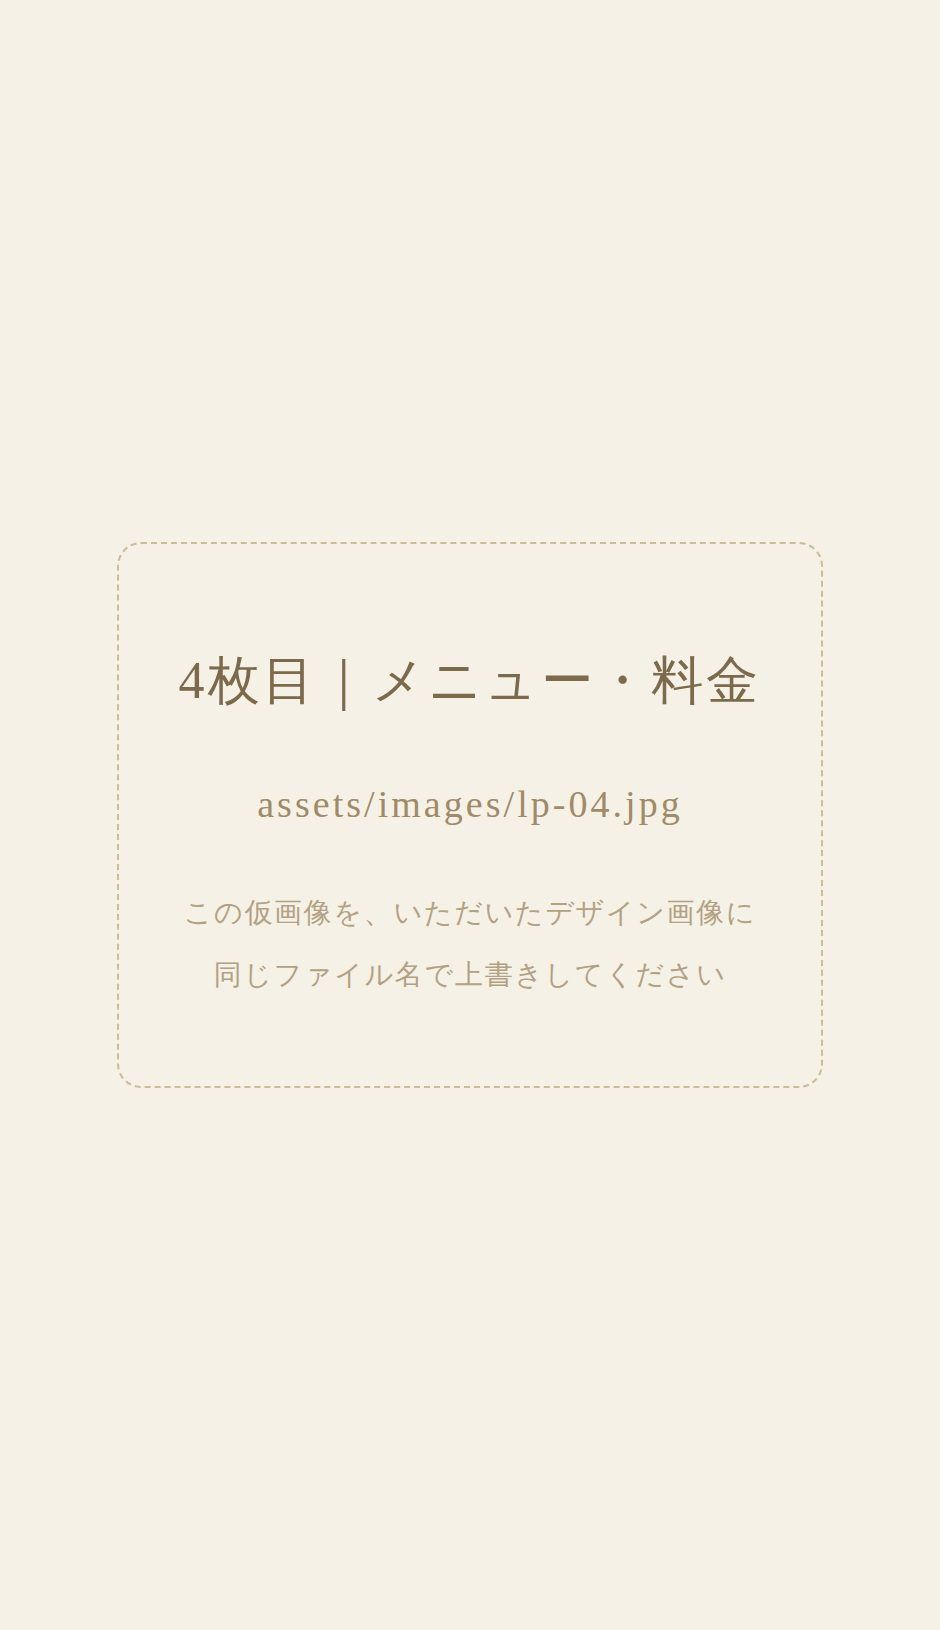
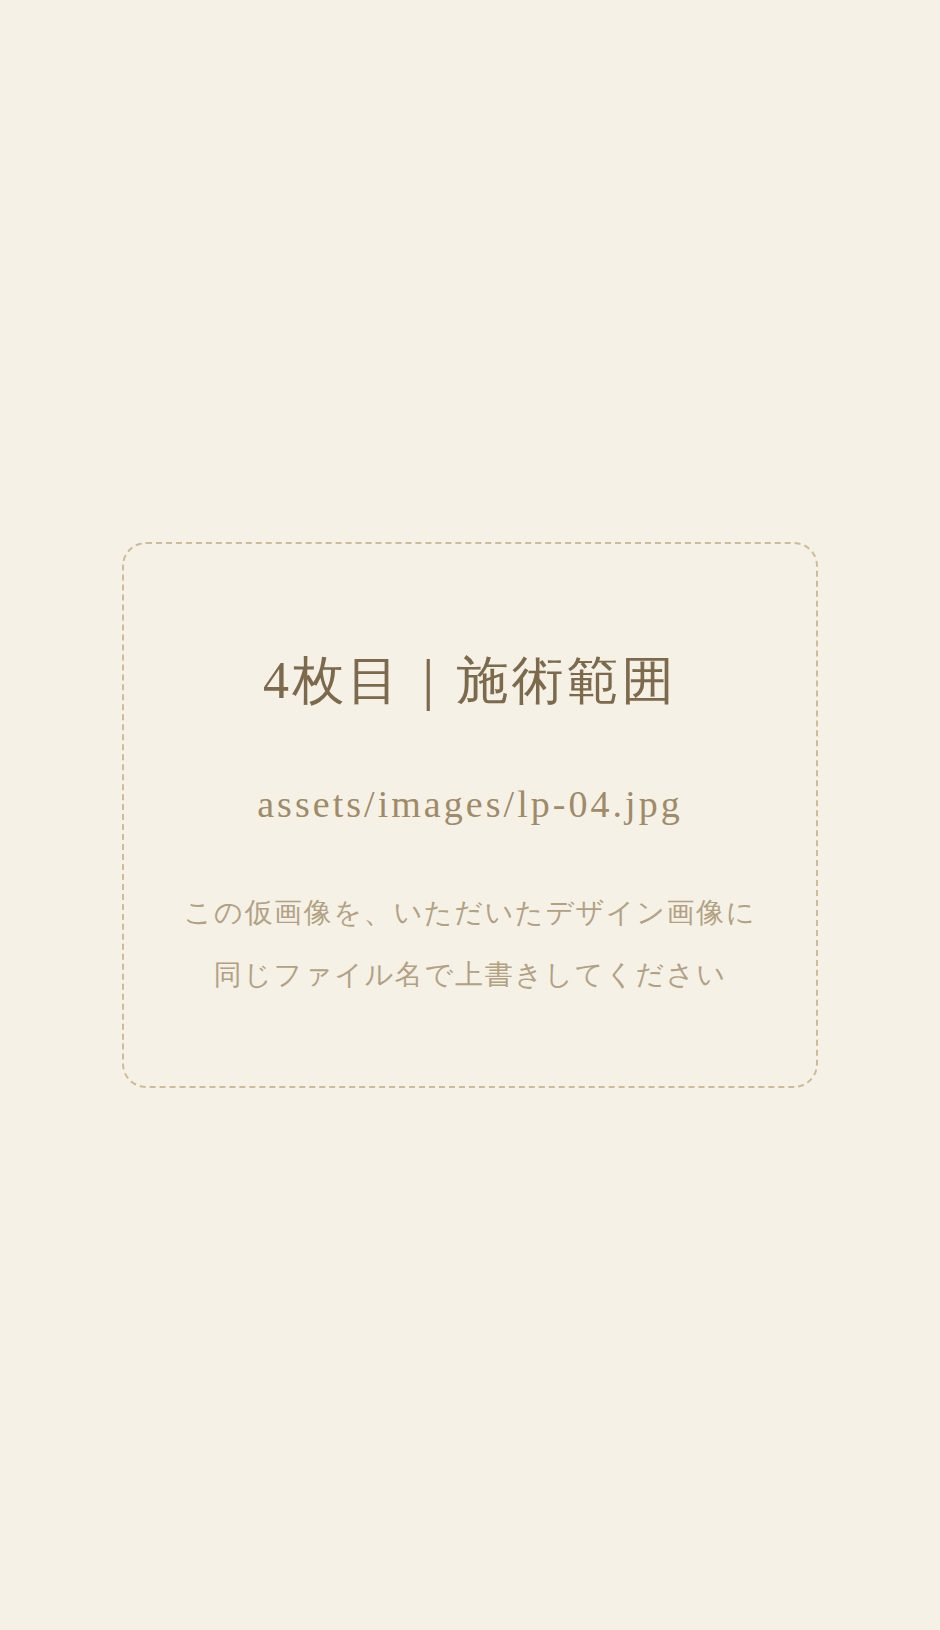
施術範囲を「60分後」の直後に移動し、番号を並び順に振り直し
lp-01 FV／02 お悩み・特長／03 60分後／04 施術範囲／05 メニュー・料金／
06 セラピスト紹介／07 よくある質問／08 クロージング

Claude-Session: https://claude.ai/code/session_014RihsbcfjD2T5DTBNgUpcP

Changed region(s): [[0.1851, 0.3988, 0.8021, 0.4294]]

diff --git a/index.html b/index.html
@@ -102,9 +102,9 @@
   <img src="assets/images/lp-01.jpg" alt="A＋salon／頭から、ふっと軽くなる。40代女性のための上質なヘッドマッサージ（完全予約制・女性専用／宗像市）">
   <img src="assets/images/lp-02.jpg" alt="こんなお悩みありませんか？ 頭が重い・眠りが浅い・首肩がつらい・自分時間がほしい。A＋salonのヘッドマッサージは、頭・顔・首・肩・デコルテまで、アーユルヴェーダの知恵を取り入れたケアをゆったり60分。">
   <img src="assets/images/lp-03.jpg" alt="60分後、こんな感覚を。頭がふわっと軽く感じる／深くひと息つける／鏡を見るのが少し楽しみになる">
-  <img src="assets/images/lp-04.jpg" alt="メニュー・料金：ヘッドマッサージ11,000円／シミケア 全顔38,000円・スポット1個6,500円／足裏角質ケア11,000円／毛穴クリアトリートメント11,000円／全身デトックスセラピー（タラソテラピー）13,500円">
-  <img src="assets/images/lp-05.jpg" alt="セラピスト紹介 後藤あけみ：忙しい毎日の中で、少し肩の力が抜ける場所でありたい。そんな想いで、お一人おひとりに丁寧に向き合っています。">
-  <img src="assets/images/lp-06.jpg" alt="施術範囲：頭からデコルテまで、ひと続きに。頭・顔・首・肩・デコルテを、つながっている部分として丁寧に触れていきます。">
+  <img src="assets/images/lp-04.jpg" alt="施術範囲：頭からデコルテまで、ひと続きに。頭・顔・首・肩・デコルテを、つながっている部分として丁寧に触れていきます。">
+  <img src="assets/images/lp-05.jpg" alt="メニュー・料金：ヘッドマッサージ11,000円／シミケア 全顔38,000円・スポット1個6,500円／足裏角質ケア11,000円／毛穴クリアトリートメント11,000円／全身デトックスセラピー（タラソテラピー）13,500円">
+  <img src="assets/images/lp-06.jpg" alt="セラピスト紹介 後藤あけみ：忙しい毎日の中で、少し肩の力が抜ける場所でありたい。そんな想いで、お一人おひとりに丁寧に向き合っています。">
   <img src="assets/images/lp-07.jpg" alt="よくある質問：オイルは使いますか？／メイクをしたままでも大丈夫ですか？／初めてでも大丈夫ですか？">
 
   <!-- 最後の1枚はボタン部分をリンクにしています（位置は下の .hot--reserve / .hot--line の % で調整できます） -->

diff --git a/README.md b/README.md
@@ -27,9 +27,9 @@
    | `lp-01.jpg` | 1枚目：ファーストビュー |
    | `lp-02.jpg` | 2枚目：こんなお悩み・特長 |
    | `lp-03.jpg` | 3枚目：60分後、こんな感覚を。 |
-   | `lp-04.jpg` | 4枚目：メニュー・料金 |
-   | `lp-05.jpg` | 5枚目：セラピスト紹介 |
-   | `lp-06.jpg` | 6枚目：施術範囲 |
+   | `lp-04.jpg` | 4枚目：施術範囲 |
+   | `lp-05.jpg` | 5枚目：メニュー・料金 |
+   | `lp-06.jpg` | 6枚目：セラピスト紹介 |
    | `lp-07.jpg` | 7枚目：よくある質問 |
    | `lp-08.jpg` | 8枚目：クロージング（ご予約／LINE） |
 
